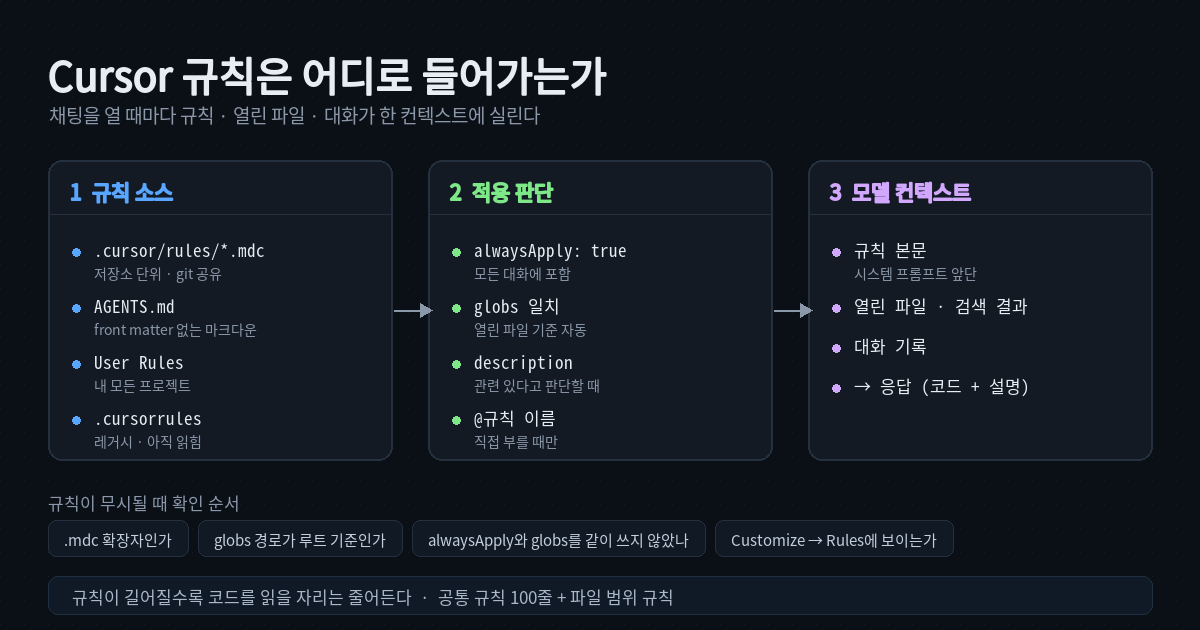
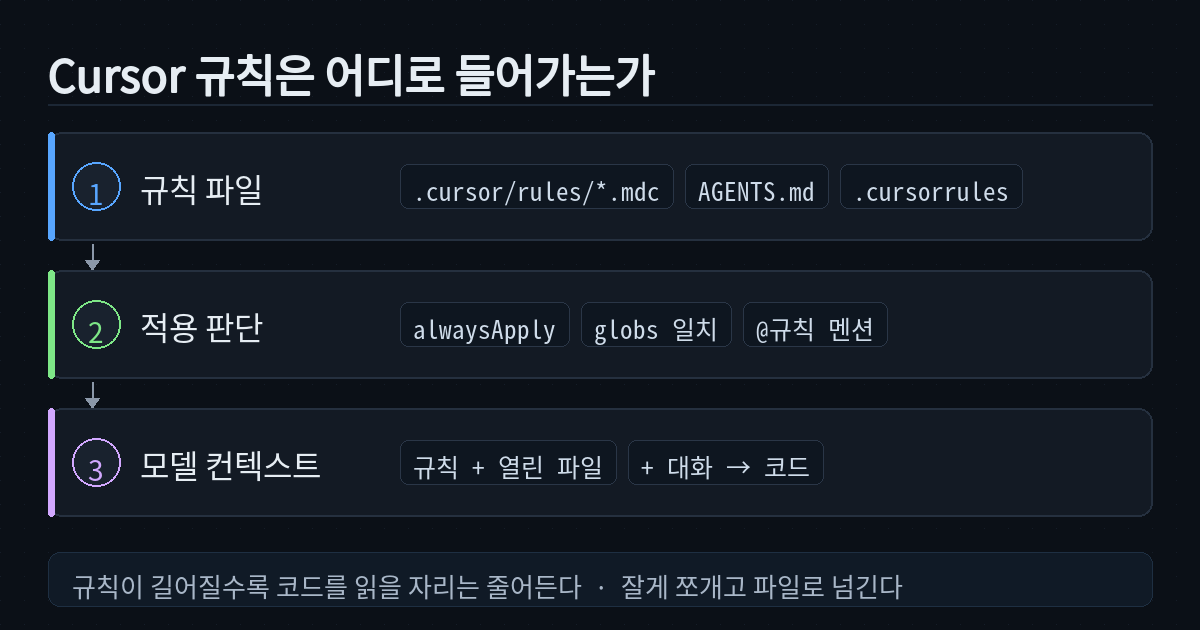
모바일에서 읽히도록 규칙 목록화·다이어그램 세로 흐름으로 수정

Changed region(s): [[0.0308, 0.0905, 0.9558, 0.9651], [0.3392, 0.2413, 0.9558, 0.3317], [0.8017, 0.4825, 0.8633, 0.5127]]

diff --git a/_posts/2026-11-28-cursor-rules-practical-setup.md b/_posts/2026-11-28-cursor-rules-practical-setup.md
@@ -1,7 +1,7 @@
 ---
 layout: post
 title: "Cursor 규칙 파일, 매번 같은 설명 하지 않게 만드는 법 — .cursorrules에서 .cursor/rules까지"
-description: "Cursor가 채팅마다 다른 코드를 뽑는 건 모델이 나빠서가 아니라 프로젝트 규칙을 넘기지 않았기 때문입니다. 실제로 쓰는 규칙 파일 예시, 파일 범위로 쪼개는 방법, 규칙이 무시될 때 확인할 것, 길어졌을 때 컨텍스트가 뭉개지는 지점까지 짚었습니다."
+description: "Cursor가 채팅마다 다른 코드를 내는 건 규칙을 넘기지 않았기 때문입니다. 실제로 쓰는 규칙 파일 예시, 규칙이 무시될 때 확인할 것, 길어졌을 때 컨텍스트가 뭉개지는 지점까지 짚었습니다."
 date: 2026-11-28 09:30:00 +0900
 category: cursor
 tags: [cursor, cursorrules, ai-coding, dev-workflow, typescript]
@@ -25,12 +25,10 @@ Cursor의 규칙은 시스템 프롬프트에 미리 붙는 텍스트다. 채팅
 
 규칙 소스에서 시작해 적용 여부를 거쳐 모델 컨텍스트 앞단에 붙고, 그 뒤에 내가 연 파일과 대화가 이어진다.
 
-| 종류 | 위치 | 적용 범위 |
-| --- | --- | --- |
-| Project Rules | `.cursor/rules/*.mdc` | 저장소 단위, git으로 공유 |
-| `.cursorrules` (레거시) | 저장소 루트 | 저장소 단위. 아직 읽히지만 deprecated |
-| `AGENTS.md` | 저장소 루트와 하위 폴더 | 저장소 단위, front matter 없는 순수 마크다운 |
-| User Rules | Cursor 설정 | 내 계정의 모든 프로젝트 |
+- **Project Rules** — 저장소의 `.cursor/rules/*.mdc`. git으로 팀과 공유한다.
+- **`.cursorrules`** — 저장소 루트에 두는 예전 방식. 아직 읽히지만 deprecated다.
+- **`AGENTS.md`** — 저장소 루트와 하위 폴더에 두는 순수 마크다운. front matter가 없다.
+- **User Rules** — Cursor 설정에 두고 내 계정의 모든 프로젝트에 적용한다.
 
 `.cursorrules`는 원래 이 용도로 유일한 파일이었고 지금도 루트에 두면 읽힌다. 다만 Cursor 공식 문서와 헬프센터는 이 파일을 레거시로 부르고 `.cursor/rules` 또는 `AGENTS.md`로 옮기라고 안내한다. 공식 문서 기준의 이전 절차는 단순하다.
 
